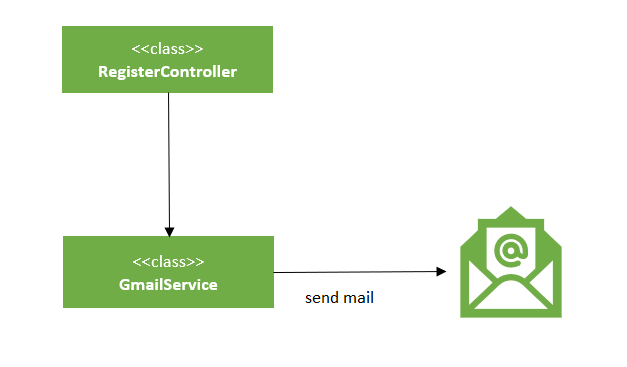
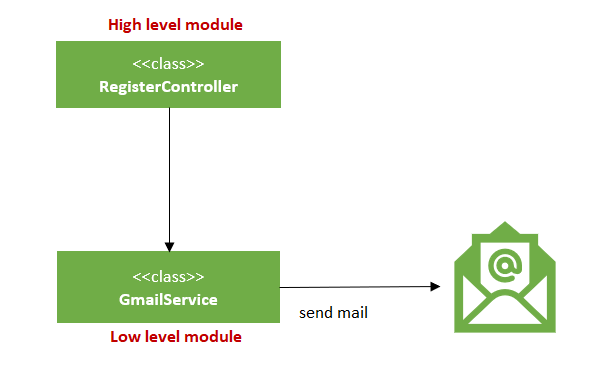
push solid article

Changed region(s): [[0.089, 0.03, 0.9193, 0.9292]]

diff --git a/post/what-is-the-solid-principle.html b/post/what-is-the-solid-principle.html
@@ -41,8 +41,8 @@
     </div>
 </div>
 <!-- Loader -->
-
 <div id="fb-root"></div>
+<script async defer crossorigin="anonymous" src="https://connect.facebook.net/vi_VN/sdk.js#xfbml=1&version=v12.0&appId=349033547077915&autoLogAppEvents=1" nonce="a4JaignQ"></script>
 
 <!-- Navbar STart -->
 <header id="topnav" class="defaultscroll sticky">
@@ -115,7 +115,7 @@
                         <blockquote class="quote rounded mt-3 p-3">
                             <p class="mb-0">Every software component should have one and only one responsibility.</p>
                         </blockquote>
-                        <p>Mỗi software component chỉ nên có 1 trách nhiệm duy nhất và "software component". Trong phạm vi OOP thì chúng ta có thể hiểu software component là: một class, một method hoặc một module. Để hình dung rõ hơn chúng ta cùng xem hình ảnh sau:</p>
+                        <p>Mỗi software component chỉ nên có 1 và chỉ 1 trách nhiệm duy nhất. Trong phạm vi OOP thì chúng ta có thể hiểu software component là: một class, một method hoặc một module. Để hình dung rõ hơn chúng ta cùng xem hình ảnh sau:</p>
                         <figure style="text-align: center;">
                             <img class="rounded p-2" src="../images/blog/19/single-responsibility-principle.png" alt="Single Responsibility Principle (SRP)">
                             <figcaption><b>Figure 2: Single Responsibility Principle (Refer from Accesto.com)</b></figcaption>
@@ -217,16 +217,21 @@
                             <p class="mb-0">No client should be forced to depend on methods it does not use.</p>
                         </blockquote>
                         <p>Nguyên lý này khá dễ hiểu, nó phát biểu rằng những implementation của interface không nên bị phụ thuộc vào những method mà nó không dùng đến. Điều này có nghĩa là chúng ta nên phân chia các method vào những interface hợp lý, không nên nhóm nhiều method vào một FAT interface.</p>
+                        <p>Nếu bạn dùng iphone thì liệu Apple có nên tặng kèm 1 một loại dây sạc như này cho bạn không. Tất nhiên là không rồi vì nó dư thừa quá nhiều chức năng không cần thiết.</p>
+                        <figure style="text-align: center;">
+                            <img class="rounded p-2" src="../images/blog/19/isp_04.png" alt="ISP">
+                            <figcaption><b>Figure 12: Một dây sạc dư thừa quá nhiều chức năng cho 1 chiếc iphone.</b></figcaption>
+                        </figure>
                         <p>Ví dụ ta có 1 interface <code>IExportable</code> định nghĩa 2 method hỗ trợ export csv hoặc pdf.
                             Tuy nhiên với thông tin sao kê tín dụng <code>CreditStatement</code> thì không hỗ trợ export csv, dẫn đến method <code>exportCsv()</code> sẽ throw exception. Cách thiết kế này đã vi phạm nguyên lý vì <code>CreditStatement</code> đang phải implement một method không liên quan.</p>
                         <figure style="text-align: center;">
                             <img class="rounded p-2" src="../images/blog/19/isp_01.png" alt="ISP">
-                            <figcaption><b>Figure 12: <code>CreditStatement</code> phải implement method không liên quan.</b></figcaption>
+                            <figcaption><b>Figure 13: <code>CreditStatement</code> phải implement method không liên quan.</b></figcaption>
                         </figure>
                         <p>Chúng ta có thể sửa bằng cách tách 2 interface như sau. Các class sẽ chọn implement những interface chưa các method mà nó cần thiết. </p>
                         <figure style="text-align: center;">
                             <img class="rounded p-2" src="../images/blog/19/isp_02.png" alt="ISP solution">
-                            <figcaption><b>Figure 13: Các class sẽ chọn implement những interface chưa các method mà nó cần thiết.</b></figcaption>
+                            <figcaption><b>Figure 14: Các class sẽ chọn implement những interface chưa các method mà nó cần thiết.</b></figcaption>
                         </figure>
                         <p class="caution rounded p-3">
                             <i class="fas fa-exclamation-circle"></i>
@@ -245,16 +250,51 @@
                                 <li>Abstractions không nên phụ thuộc vào chi tiết, mà ngược lại.</li>
                             </ul>
                         </blockquote>
-                        <p>Với nguyên lý này chúng ta cần khái niệm như nào là <code>high-level module</code> và <code>low-level module</code>. Thông thường chức năng đăng ký tài khoản, thông thường chúng ta sẽ cần gửi email kick hoạt tài khoản.</p>
+                        <p>Với nguyên lý này chúng ta cần biết khái niệm như nào là <code>module cấp cao</code> và <code>module cấp thấp</code>.
+                            Khi module A gọi module B, lúc này module A phụ thuộc (depend) vào module B. Thì module A là <code>module cấp cao</code> và module B là <code>module cấp thấp</code>.
+                        </p>
+                        <p>
+                            Ví dụ với chức năng đăng ký tài khoản, sau khi đăng ký thành công chúng ta sẽ cần gửi email kick hoạt tài khoản. Trường hợp này thì <code>RegisterController</code> sẽ là module cấp cao và <code>GmailService</code> là module cấp thấp.
+                        </p>
                         <figure style="text-align: center;">
                             <img class="rounded p-2" src="../images/blog/19/dip_01.png" alt="Dependency Inversion Principle (DIP)">
-                            <figcaption><b>Figure 14: Sau khi đăng ký tài khoản sẽ gửi email bằng Google mail service.</b></figcaption>
+                            <figcaption><b>Figure 15: Sau khi đăng ký tài khoản sẽ gửi email bằng Google mail service.</b></figcaption>
+                        </figure>
+                        <p>Việc module cấp cao gọi trực tiếp module cấp thấp như Figure 15 sẽ dẫn đến <code>RegisterController</code> bị phụ thuộc vào <code>GmailService</code>. Trong trường hợp ứng dụng thay đổi sử dụng dịch vụ Hot mail thay vì dùng Gmail thì lúc này <code>RegisterController</code> cần thay đổi gọi sang <code>HotMailService</code>.
+                        Để giải quyết việc phụ thuộc này chúng ta sẽ thiết kế như sau:
+                        </p>
+                        <figure style="text-align: center;">
+                            <img class="rounded p-2" src="../images/blog/19/dip_02.png" alt="Dependency Inversion Principle (DIP)">
+                            <figcaption><b>Figure 16: <code>RegisterController</code> sẽ liên kết trực tiếp đến interface <code>EmailService</code></b></figcaption>
+                        </figure>
+                        <p>Khi <code>RegisterController</code> sẽ liên kết trực tiếp đến interface <code>EmailService</code>, điều này sẽ giúp cho <code>RegisterController</code> sẽ có thể linh động sử dụng bất kì service email nào mà bản thân nó không phải thay đổi. </p>
+                        <figure style="text-align: center;">
+                            <img class="rounded p-2" src="../images/blog/19/dip_03.png" alt="Dependency Inversion Principle (DIP)">
+                            <figcaption><b>Figure 17: <code>RegisterController</code> sẽ không bị phụ thuộc vào 1 service mail cụ thể mà có thể linh động sử dụng</b></figcaption>
                         </figure>
 <!--                        <p><a href="https://github.com/phuongdp-tech/demo-source-winzone-blog/blob/main/SQL/VIEW_IN_SQL.sql" target="_blank">Source code tham khảo</a></p>-->
+                        <p>Ta có thể triển khai source code bằng cách <code>RegisterController</code> sẽ được inject EmailService thay vì trực tiếp <code>GmailService</code>: </p>
+                        <figure style="text-align: center;">
+                            <img class="rounded p-2" src="../images/blog/19/dip_04.png" alt="Dependency Inversion Principle (DIP)">
+                            <figcaption><b>Figure 18: <code>RegisterController</code> inject EmailService thay vì trực tiếp GmailService</b></figcaption>
+                        </figure>
+                        <p>Trong quá trình execute <code>RegisterController</code> có thể switch email service khác nhau mà bản thân nó không phải chỉnh sửa gì. </p>
+                        <figure style="text-align: center;">
+                            <img class="rounded p-2" src="../images/blog/19/dip_05.png" alt="Dependency Inversion Principle (DIP)">
+                            <figcaption><b>Figure 19: <code>RegisterController</code> không cần chỉnh sửa khi đổi từ <code>GmailService</code> sang dùng <code>HotMailService</code></b></figcaption>
+                        </figure>
+                        <p class="caution rounded p-3">
+                            <i class="fas fa-exclamation-circle"></i>
+                            Cách triển khai code bên trên đang sử dụng Dependency Injection, một trong những cách implement Dependency Inversion Principle.
+                        </p>
+                        <h2 id="summary" class="mt-4">6. Kết luận</h2>
+                        <p>Gửi lời khen ngợi đến các bạn đã kiên trì cùng mình hoàn thành nội dung liên quan đến 5 nguyên lý trong SOLID. Hi vọng sau bài viết này các bạn sẽ hiểu cơ bản về SOLID và áp dụng vào cách thiết kế để giúp source code của mình dễ dàng mở rộng hơn.</p>
+                        <p>Tuy nhiên cũng cần phải lưu ý rằng, bất cứ nguyên lý nào cũng có 2 mặt lợi và hại. Nếu cứng nhắc áp dụng thì đôi khi source code sẽ bị dài dòng, phức tạp và khó quản lý hơn.
+                           Nên bạn cần hiểu và áp dụng SOLID một cách hợp lý chứ không phải cứng nhắc.</p>
                     </div>
                 </div>
 
-<!--                <div class="fb-comments mt-4" data-href="https://winzone.vn/post/database-view-basic.html" data-width="100%" data-numposts="5"></div>-->
+                <div class="fb-comments mt-4" data-href="https://winzone.vn/post/what-is-the-solid-principle.html" data-width="100%" data-numposts="5"></div>
             </div>
         </div>
     </div><!--end container-->

diff --git a/fragment/post-area.html b/fragment/post-area.html
@@ -41,10 +41,12 @@ $(document).ready(function () {
                         <img src="${HOST_URL}/${item.image}" class="card-img-top" alt="...">
                         <div class="overlay rounded-top bg-dark"></div>
                     </div>
-                    <div class="card-body content">
-                        <h5><a href="${HOST_URL}/${item.url}" class="card-title title text-dark">${item.title}</a></h5>
-                        <p>${item.brief}</p>
-                        <div class="post-meta d-flex justify-content-end mt-3">
+                    <div class="card-body content card-body-custom justify-content-between">
+                        <div>
+                            <h5><a href="${HOST_URL}/${item.url}" class="card-title title text-dark">${item.title}</a></h5>
+                            <p>${item.brief}</p>
+                        </div>
+                        <div class="post-meta d-flex justify-content-end">
                             <a href="${HOST_URL}/${item.url}" class="btn btn-outline-primary">Read more</a>
                         </div>
                     </div>
@@ -295,6 +297,18 @@ $(document).ready(function () {
             "author": "Phuong Dang",
             "createDate": "27/Nov/2022",
             "category": ['spring', 'web', 'spring-mvc', 'interview-question-bank'],
+            "order": 15
+        },
+        {
+            "id": 19,
+            "title": 'Cơ bản về nguyên lý thiết kế SOLID',
+            "image": "images/blog/19/blg_inline_solid_principles.png",
+            "brief": "Phát triển phần mềm là một môi trường sẽ liên tục thay đổi, để thích nghi được với điều này thì mỗi sản phẩm cần phải có một kiến trúc thiết kế thật tốt.",
+            "content": "",
+            "url": "post/what-is-the-solid-principle.html",
+            "author": "Phuong Dang",
+            "createDate": "02/Mar/2023",
+            "category": ['principle', 'oop', 'java'],
             "order": 15
         },
     ];
